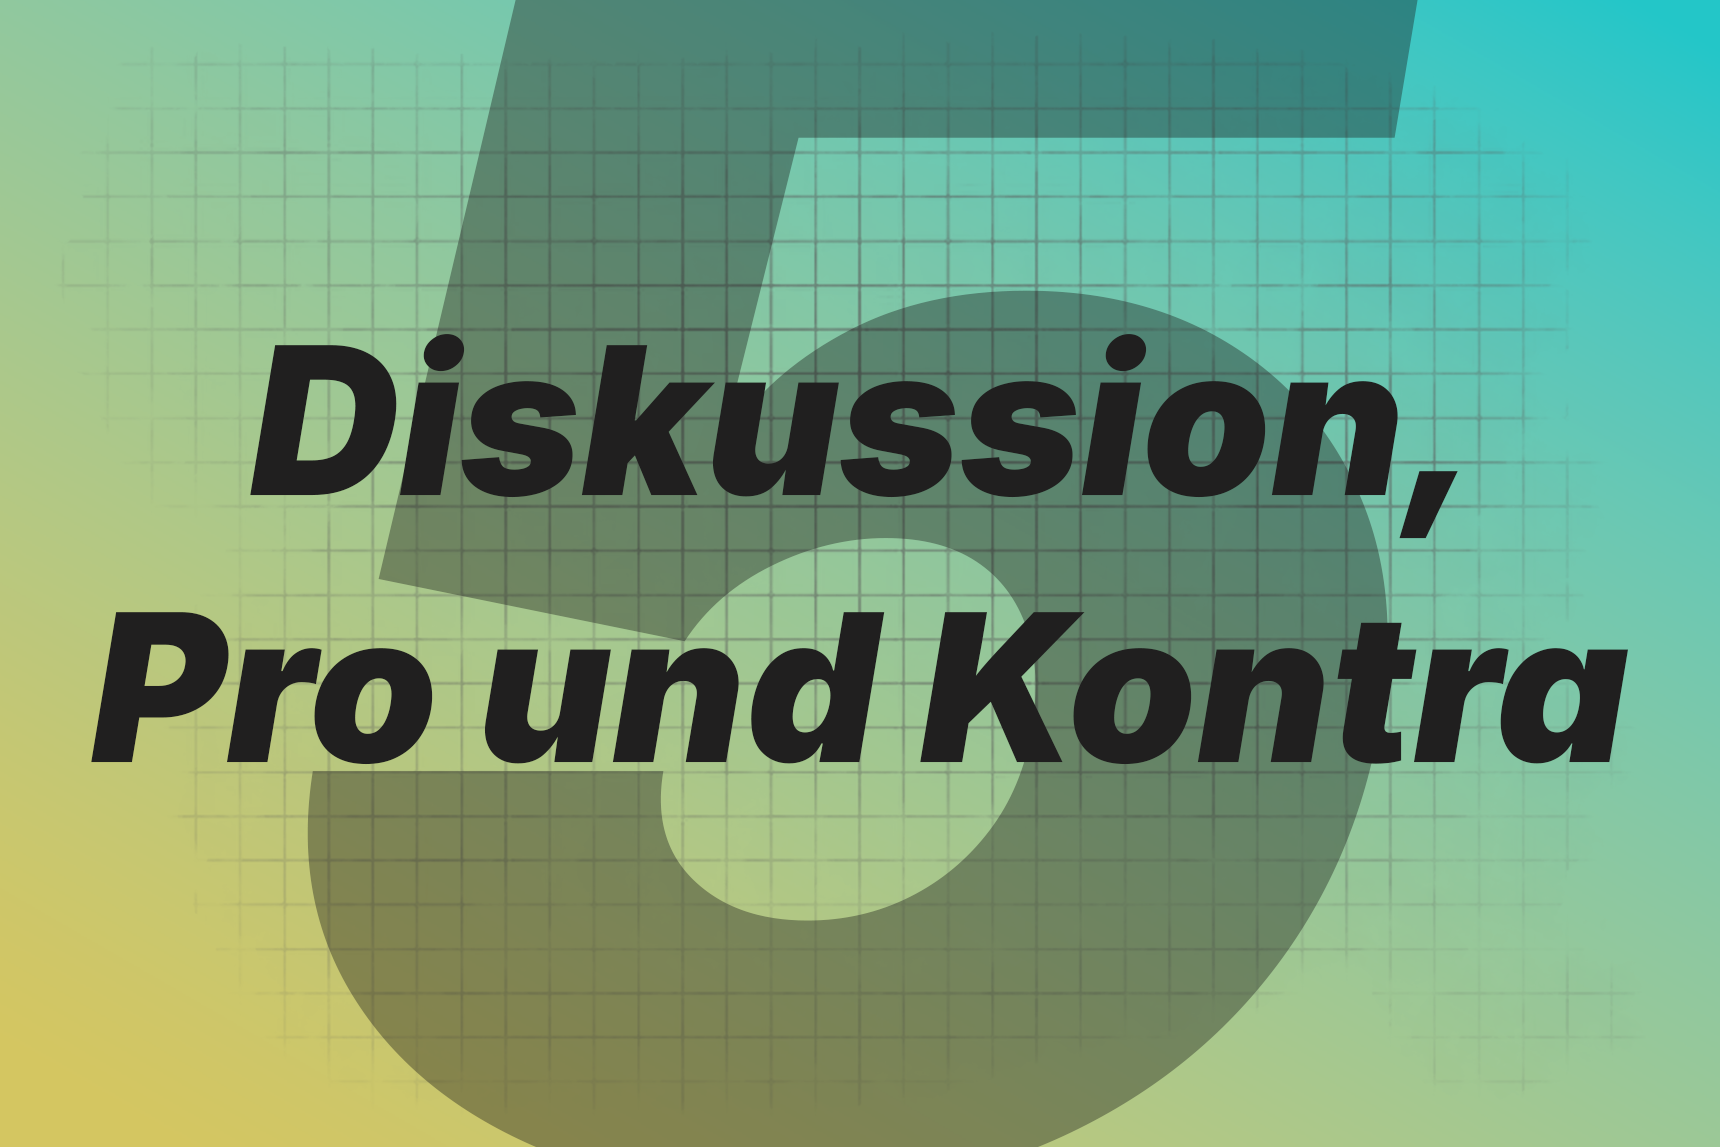
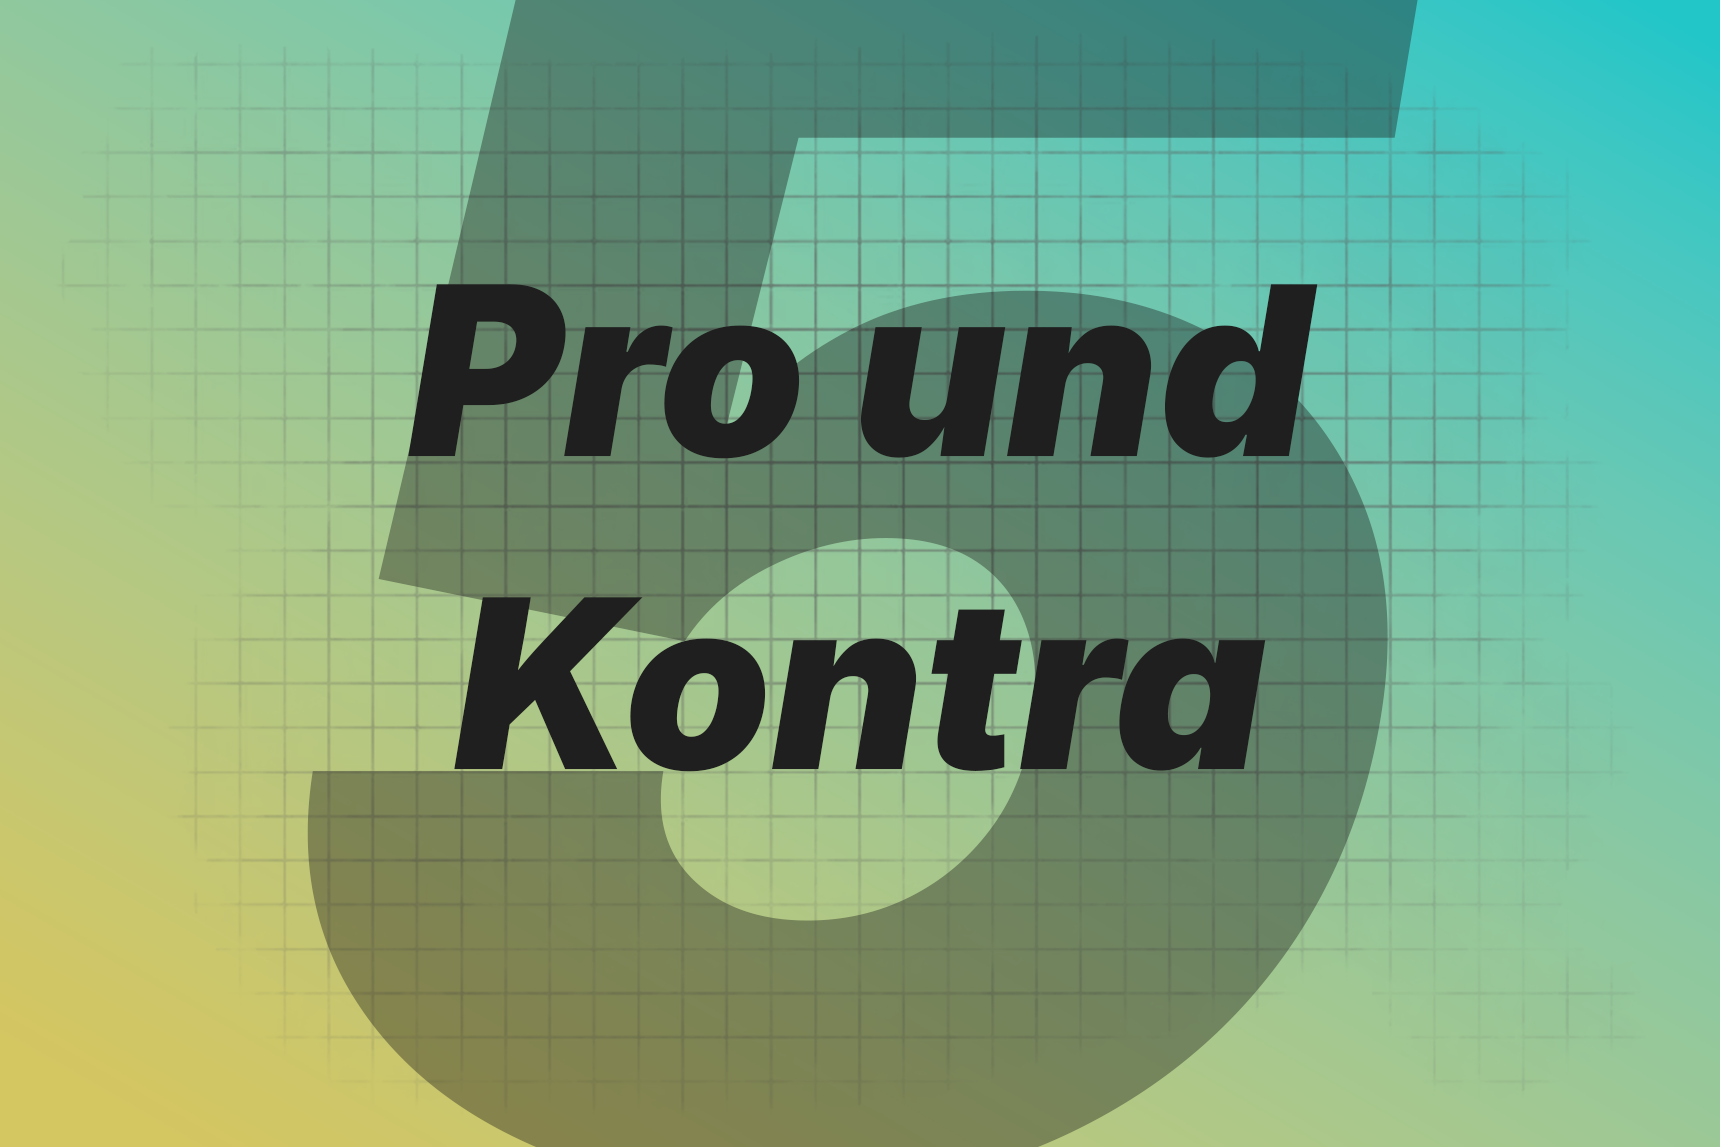
transcript_href property new 5.png cover image

Changed region(s): [[0.0308, 0.5187, 0.9552, 0.6713], [0.1233, 0.2441, 0.8628, 0.4882]]

diff --git a/src/components/download_button.ts b/src/components/download_button.ts
@@ -1,7 +1,6 @@
 type DownloadButtonData = {
     title: string;
     href: string;
-    icon?: Object | null;
 };
 
 export default function DownloadButton({
@@ -12,37 +11,27 @@ export default function DownloadButton({
     key?: string;
 }) {
     return `
-        <a
+        <div
             key={${key}}
-            href="${data.href}"
-            target="_blank"
-            rel="noopener noreferrer">
-            <div class="w-full flex flex-row justify-between drop-shadow-2xl items-center pl-5 pr-5 pt-2 pb-2 border border-black rounded-3xl bg-white">
-                <div class="flex flex-row items-center>
-                    ${
-                        data.icon
-                            ? `<div class="w-12 aspect-square bg-amber-500"></div>`
-                            : ""
-                    }
-                    <p
-                        class={"inter-regular text-lg text-black ${data.icon ? "ml-2" : ""}"}>
+            class="w-full drop-shadow-2xl items-center border border-black rounded-3xl bg-white scale-100 hover:scale-[1.01] hover:border-2 transition-all duration-200"
+        >
+            <a
+                class="w-full flex pl-5 pr-5 pt-2 pb-2 rounded-3xl"
+                href="${data.href}"
+                target="_blank"
+                rel="noopener noreferrer"
+            >
+
+                <div class="flex flex-col w-full">
+                    <p class="inter-regular text-lg text-black">
                         ${data.title}
                     </p>
-                </div>
 
-                <div class="w-12 p-1 aspect-square">
-                    <a
-                        target="_blank"
-                        rel="noopener noreferrer"
-                        href={${data.href}}>
-                        <svg
-                            xmlns="http://www.w3.org/2000/svg"
-                            viewBox="0 0 122.88 122.88">
-                            <path d="M61.44,0A61.46,61.46,0,1,1,18,18,61.21,61.21,0,0,1,61.44,0Zm10,50.74A3.31,3.31,0,0,1,76,55.47L63.44,67.91a3.31,3.31,0,0,1-4.65,0L46.38,55.65A3.32,3.32,0,0,1,51,50.92l6.83,6.77.06-23.84a3.32,3.32,0,0,1,6.64.06l-.07,23.65,6.9-6.82ZM35,81.19l0-13a3.32,3.32,0,0,1,6.64.06l0,9.45q19.76,0,39.5,0l0-9.51a3.32,3.32,0,1,1,6.64.06l0,12.91h0a3.32,3.32,0,0,1-3.29,3.17q-23.08,0-46.15,0A3.32,3.32,0,0,1,35,81.19ZM99.44,23.44a53.74,53.74,0,1,0,15.74,38,53.58,53.58,0,0,0-15.74-38Z" />
-                        </svg>
-                    </a>
+                    <p class="inter-regular italic text-gray-400 -mt-1 truncate w-full">
+                        ${data.href}
+                    </p>
                 </div>
-            </div>
+            </a>
         </a>
     `;
 }

diff --git a/src/constants/videos.ts b/src/constants/videos.ts
@@ -13,6 +13,7 @@ export type Video = {
     key: string;
     icon: string;
     index: number;
+    transcript_href: string;
 };
 
 export const learn_videos = {
@@ -24,6 +25,8 @@ export const learn_videos = {
         key: "intro",
         icon: img_1,
         index: 1,
+        transcript_href:
+            "https://drive.google.com/uc?export=download&id=1fj-qbj8hPWtv9apZAn_kNhIuQ-p6qE_e",
     },
     DEF: {
         id: "DEF",
@@ -33,6 +36,8 @@ export const learn_videos = {
         key: "def",
         icon: img_2,
         index: 2,
+        transcript_href:
+            "https://drive.google.com/uc?export=download&id=1fj-qbj8hPWtv9apZAn_kNhIuQ-p6qE_e",
     },
     MEANING: {
         id: "MEANING",
@@ -42,6 +47,8 @@ export const learn_videos = {
         key: "meaning",
         icon: img_3,
         index: 3,
+        transcript_href:
+            "https://drive.google.com/uc?export=download&id=1fj-qbj8hPWtv9apZAn_kNhIuQ-p6qE_e",
     },
     IMPLEMENTATION: {
         id: "IMPLEMENTATION",
@@ -51,15 +58,19 @@ export const learn_videos = {
         key: "implementation",
         icon: img_4,
         index: 4,
+        transcript_href:
+            "https://drive.google.com/uc?export=download&id=1fj-qbj8hPWtv9apZAn_kNhIuQ-p6qE_e",
     },
     DISCUSSION: {
         id: "DISCUSSION",
-        title: "Diskussion, Pro und Contra",
+        title: "Pro und Contra",
         sub: "Vor- und Nachteile für den Unterricht - Falschinformationen - Vorgefertigte Meinungen und Identitäten - Aufmerksamkeit",
         href: "",
         key: "discussion",
         icon: img_5,
         index: 5,
+        transcript_href:
+            "https://drive.google.com/uc?export=download&id=1fj-qbj8hPWtv9apZAn_kNhIuQ-p6qE_e",
     },
     OUTRO: {
         id: "OUTRO",
@@ -69,6 +80,8 @@ export const learn_videos = {
         key: "outro",
         icon: img_6,
         index: 6,
+        transcript_href:
+            "https://drive.google.com/uc?export=download&id=1fj-qbj8hPWtv9apZAn_kNhIuQ-p6qE_e",
     },
 } as const satisfies Record<string, Video>;
 

diff --git a/index.html b/index.html
@@ -68,7 +68,23 @@
           Prüfungsanforderungen
         </h3>
 
-        <div class="h-96 w-1"></div>
+        <p class="inter-sm text-black md:leading-8 md:text-xl leading-6 text-lg mt-2 text-center">Literaturverzeichnisse
+          und
+          Eidesstattliche
+          Erklärungen der Ersteller:innen</p>
+
+        <div id="_download" class="mt-2 md:w-[60%] w-[90%]" title="Anton Baldur Hartenstein [3777830]"
+          url="https://drive.google.com/uc?export=download&id=1fj-qbj8hPWtv9apZAn_kNhIuQ-p6qE_e">
+        </div>
+        <div id="_download" class="mt-2 md:w-[60%] w-[90%]" title="Cyrill Mark [3785359]"
+          url="https://drive.google.com/uc?export=download&id=1fj-qbj8hPWtv9apZAn_kNhIuQ-p6qE_e">
+        </div>
+        <div id="_download" class="mt-2 md:w-[60%] w-[90%]" title="Lisa Springl [3782983]"
+          url="https://drive.google.com/uc?export=download&id=1fj-qbj8hPWtv9apZAn_kNhIuQ-p6qE_e">
+        </div>
+        <div id="_download" class="mt-2 md:w-[60%] w-[90%]" title="Sophie Rehak [3741448]"
+          url="https://drive.google.com/uc?export=download&id=1fj-qbj8hPWtv9apZAn_kNhIuQ-p6qE_e">
+        </div>
       </section>
 
       <section id="transcript" class="w-full h-auto flex flex-col items-center justify-center md:pt-5 pt-2">
@@ -77,7 +93,7 @@
         </h3>
 
         <div id="_download" class="mt-5 md:w-[60%] w-[90%]" title="Gesamtes Transkript herunterladen"
-          url="https://www.google.com">
+          url="https://drive.google.com/uc?export=download&id=1fj-qbj8hPWtv9apZAn_kNhIuQ-p6qE_e">
         </div>
       </section>
 

diff --git a/src/video.ts b/src/video.ts
@@ -14,7 +14,7 @@ document.querySelector<HTMLDivElement>("#videoWrapper")!.innerHTML = `
     </h3>
 
     <h4 class="inter-sm text-black md:leading-8 md:text-xl text-lg mt-2">
-        <p class="opacity-50">></p> ${video.sub} <p class="opacity-50"><</p>
+        ${video.sub}
     </h4>
 
     <div class="w-[80%] p-1 mt-5 drop-shadow-2xl border-2 border-white rounded-4xl overflow-visible">
@@ -34,7 +34,8 @@ document.querySelector<HTMLDivElement>("#videoWrapper")!.innerHTML = `
 document.querySelectorAll<HTMLDivElement>("#_download")!.forEach((e, k) => {
     const data = {
         title: e.attributes.getNamedItem("title")?.value || "",
-        href: e.attributes.getNamedItem("url")?.value || "",
+        // href: e.attributes.getNamedItem("url")?.value || "",
+        href: video.transcript_href,
         icon: e.attributes.getNamedItem("icon")?.value,
     };
     e.innerHTML = DownloadButton({ data: data, key: k.toString() });

diff --git a/video.html b/video.html
@@ -54,8 +54,7 @@
                 Transkript
             </h3>
 
-            <div id="_download" class="mt-5 md:w-[60%] w-[90%]" title="Transkript herunterladen"
-                url="https://www.google.com"></div>
+            <div id="_download" class="mt-5 md:w-[60%] w-[90%]" title="Transkript zum Video herunterladen" url=""></div>
         </div>
 
         <div class="md:p-2 p-1 mt-5 flex justify-center items-center self-center md:w-[80%] w-[90%] z-10">

diff --git a/vite.config.ts b/vite.config.ts
@@ -4,7 +4,7 @@ import { resolve } from "path";
 
 export default defineConfig({
     plugins: [tailwindcss()],
-    base: "/BiWi07-Videos/",
+    // base: "/BiWi07-Videos/",
     build: {
         rollupOptions: {
             input: {
